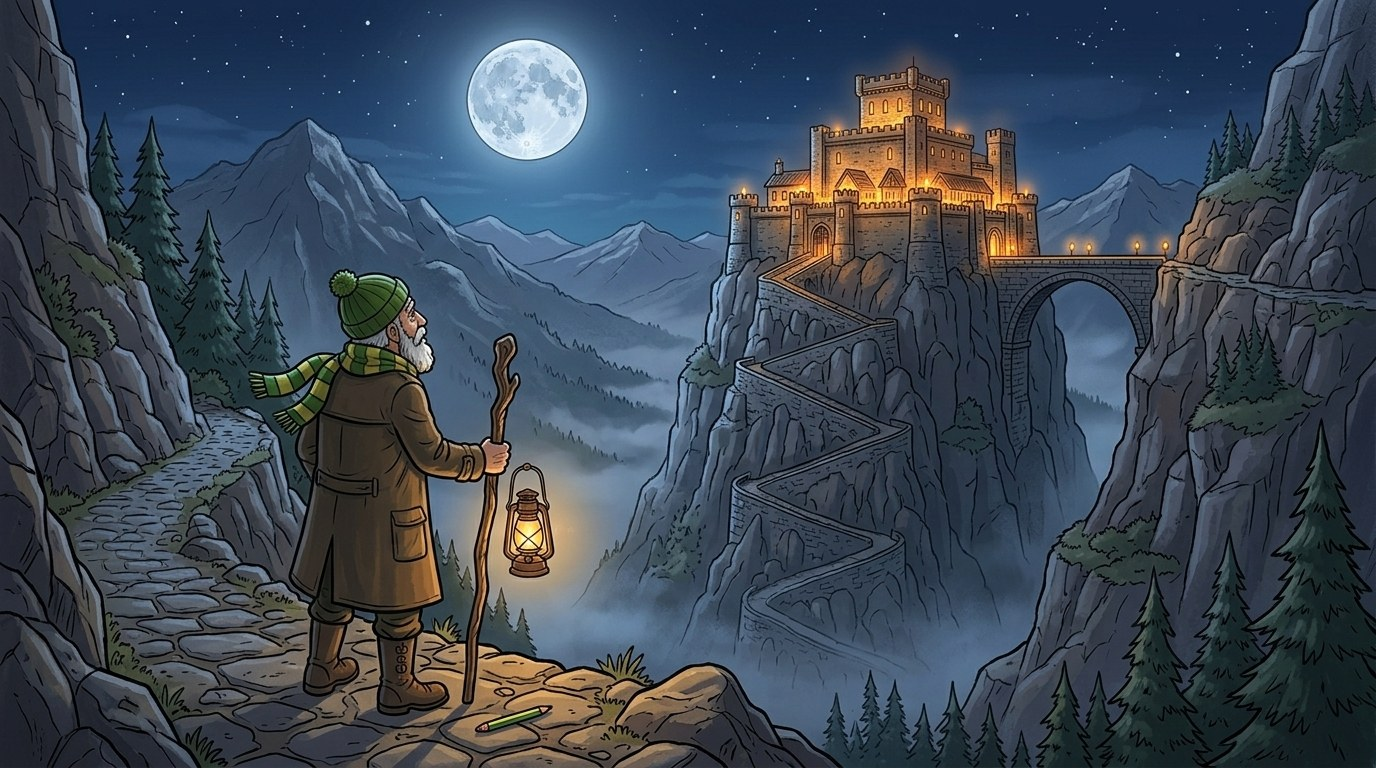
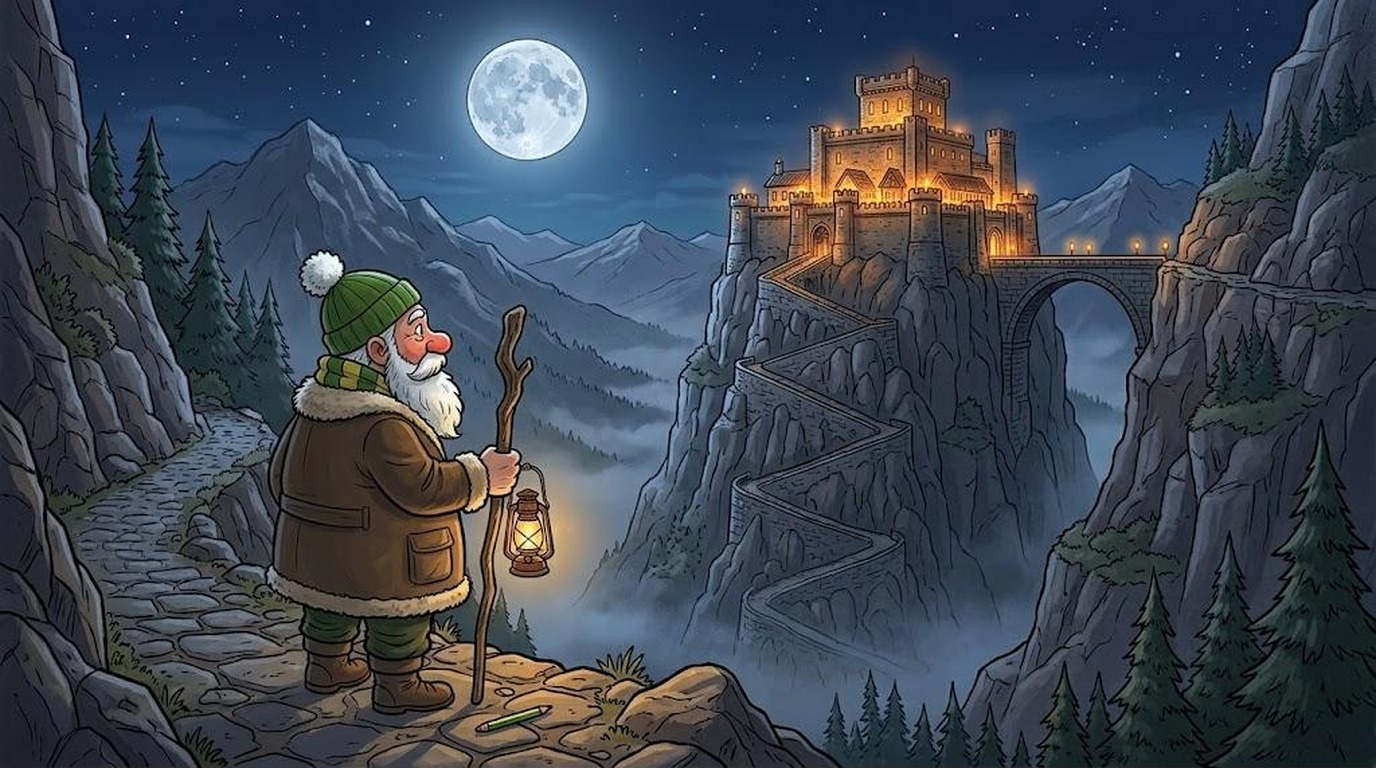
Abertura do Ep. 3: cena da fortaleza refeita no Gemini com o Tomé igual ao das outras cenas (baixinho, gorro com pompom, casaco marrom com gola de pelo)
Claude-Session: https://claude.ai/code/session_01W4uJMM5KLRnk3edeqa4wjD

diff --git a/tools/promo/rec/vertical3.py b/tools/promo/rec/vertical3.py
@@ -23,8 +23,8 @@ URL = 'alanclebersantana.github.io/Find-Her-Godot'
 
 EPS = {1: ('EPISÓDIO 1', 'O Bosque'), 2: ('EPISÓDIO 2', 'As Profundezas da Mina'), 3: ('EPISÓDIO 3', 'A Fortaleza na Serra')}
 ROT = json.load(open(V + 'roteiro.json'))   # {"1": [...trechos], "2": ..., "3": ...}
-ART = {1: 'assets/ui/cena1.jpg', 2: 'assets/ui/cut_ep2_a.jpg', 3: 'assets/ui/cut_ep3_a.jpg'}
-TAG = {1: 'A Isis sumiu. Siga a trilha de lápis!', 2: 'A trilha desce para dentro da mina', 3: 'A trilha entra na fortaleza'}
+ART = {1: 'assets/ui/cena1.jpg', 2: 'assets/ui/cut_ep2_a.jpg', 3: 'assets/ui/cut_ep3_fort.jpg'}
+TAG = {1: 'A Isis sumiu. Siga a trilha de lápis!', 2: 'A trilha desce para dentro da mina', 3: 'A trilha sobe até a fortaleza'}
 MUS = {1: 'mus_tema', 2: 'mus_tunel', 3: 'mus_perseguicao'}
 
 _fc = {}
